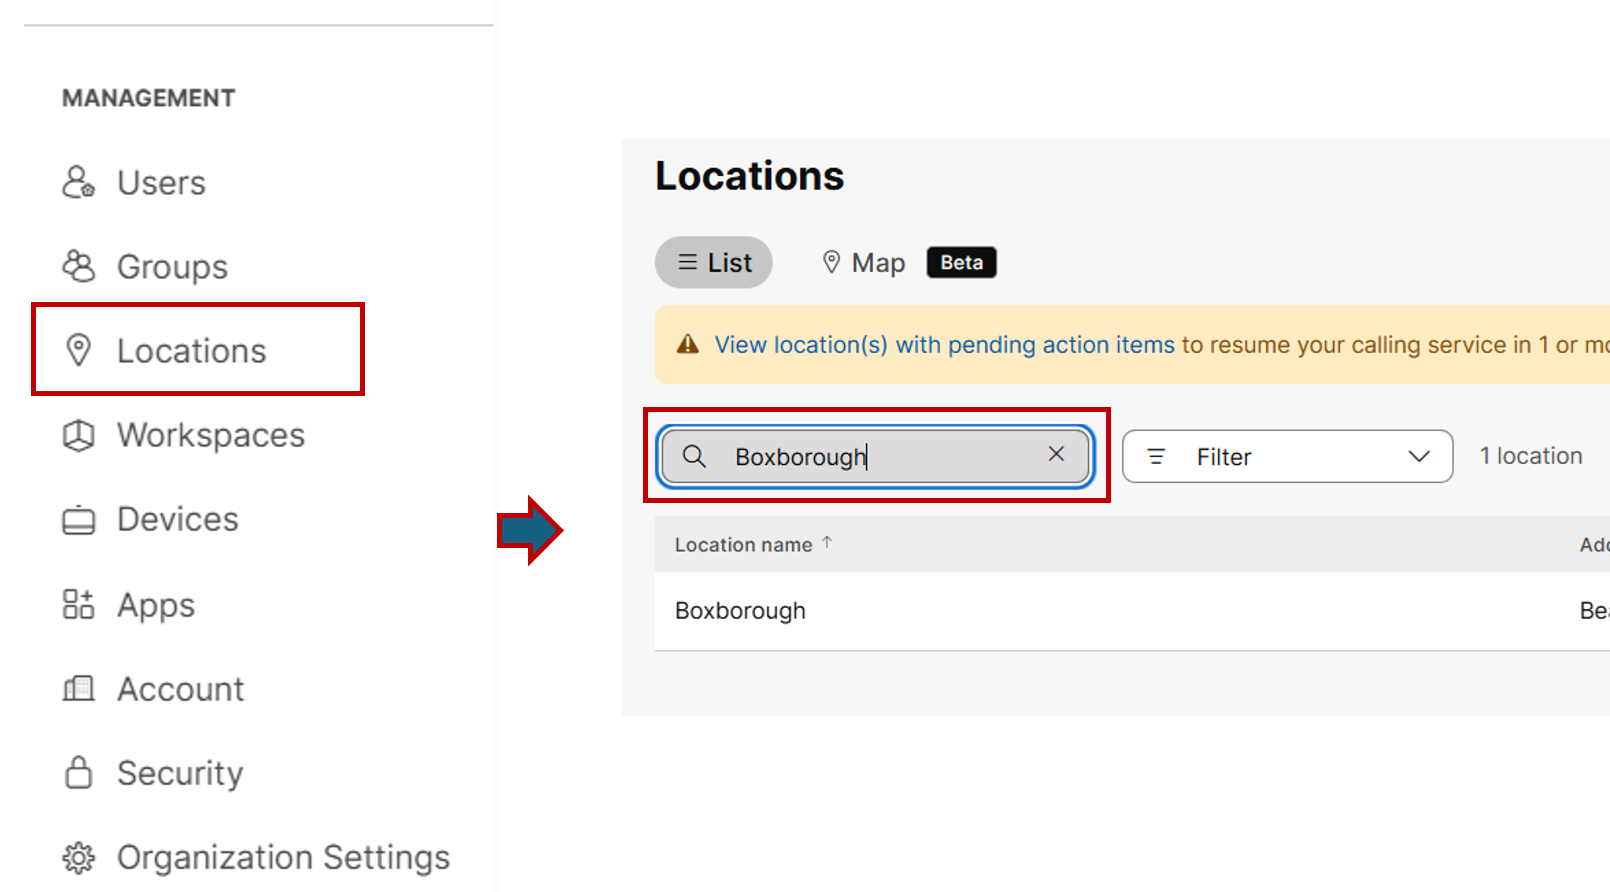
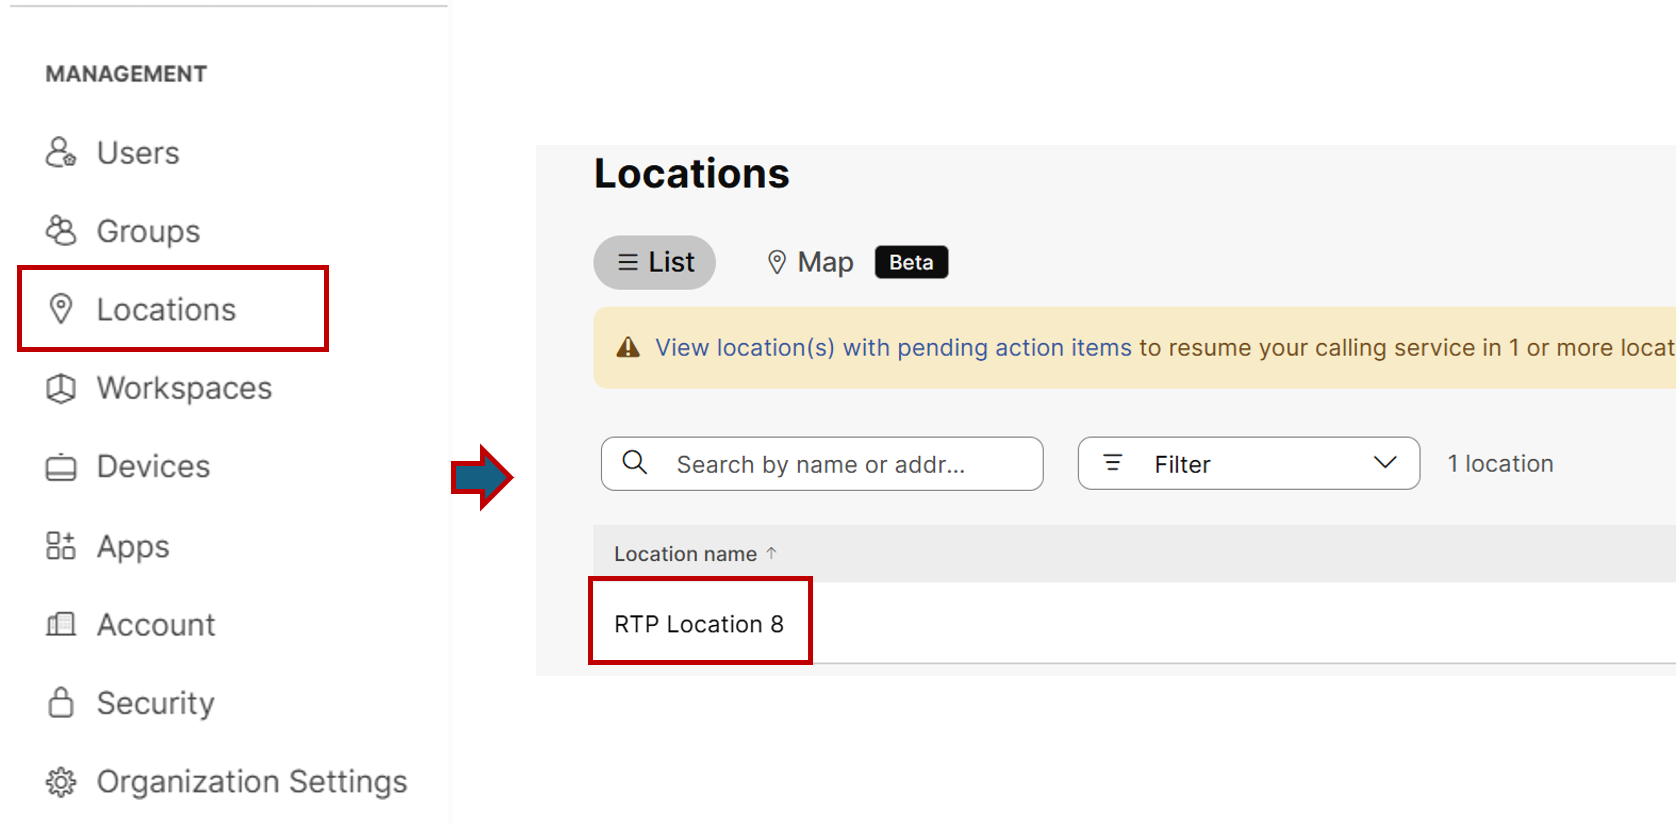
zzz

diff --git a/docs/Excercise1.md b/docs/Excercise1.md
@@ -40,14 +40,14 @@ After creating the inbound flow and presenting calls to a test agent, participan
 
       ![Nav](./assets/2310_Excercise1_3.png){ width="700" }
 
-- In the Contact Center navigation pane, under the Customer Experience section, select Channels and search for the entry point named: **EP_1**.
+- In the Contact Center navigation pane, under the Customer Experience section, select Channels and search for the entry point named: **Entry Point-1**.
 
       ![Nav](./assets/2310_Excercise1_4.png){ width="700" }
 
-- Within the details for **EP_1**, locate the Phone Number section and note the Webex Calling location and the Support Number.
+- Within the details for **Entry Point-1**, locate the Phone Number section and note the Webex Calling location and the Support Number.
 
-      - Webex Calling location: [**site1**]
-      - Support Number: [+19842990142]
+      - Webex Calling location: [**RTP Location 8**]
+      - Support Number: [+19842906061]
 
       ![Nav](./assets/2310_Excercise1_5.png){ width="700" }
 
@@ -57,7 +57,9 @@ After creating the inbound flow and presenting calls to a test agent, participan
 
       ![Nav](./assets/2310_Excercise1_6.png){ width="700" }
 
-- Select the discovered location and click on the Calling Connection details. In Main number section select the "support Number" Identified in the previous step.  In our case, the calling PSTN connection is: Cisco Calling Plan.
+- Select the discovered location and click on the Calling Connection details. 
+
+- In Main number section the "support Number" identified is the same as in the previous step and the calling PSTN connection is: **Cisco Calling Plan**
 
       ![Nav](./assets/2310_Excercise1_7.png){ width="800" }
 
